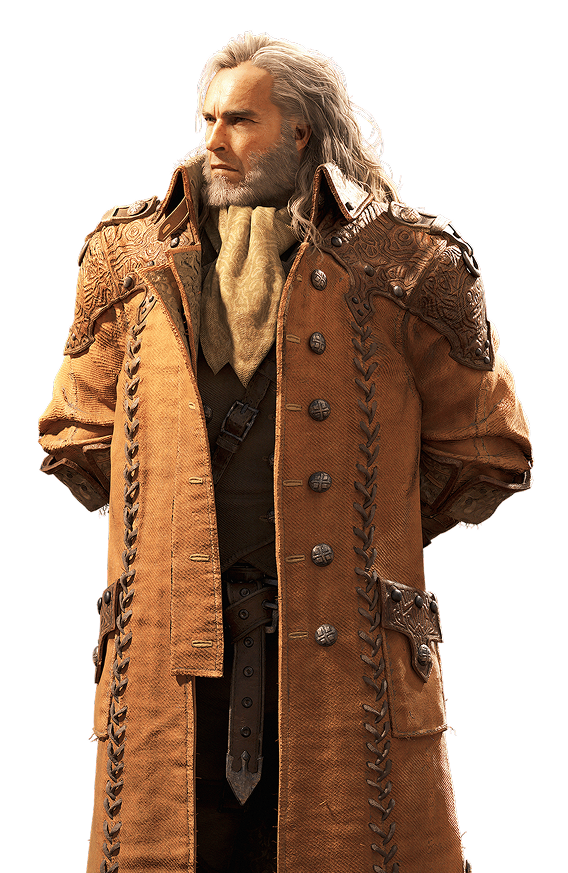
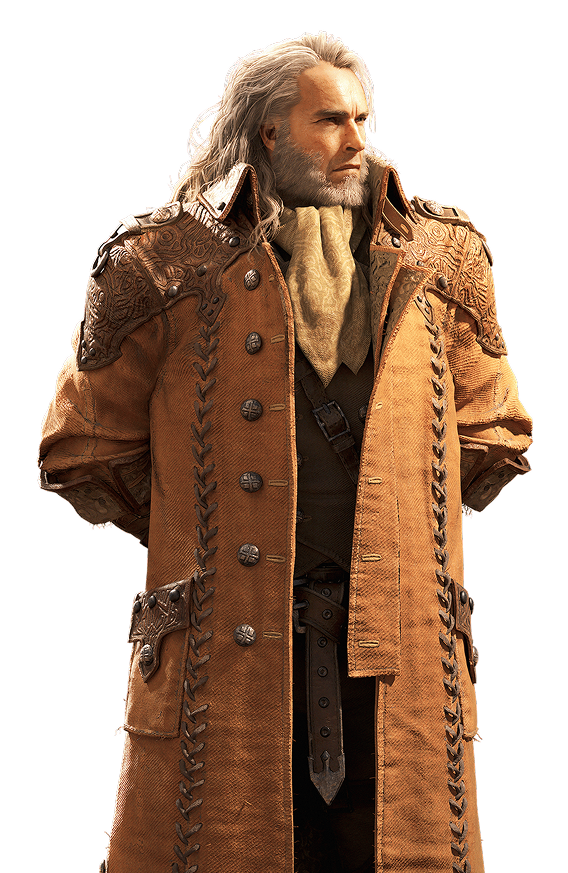
what the flip

diff --git a/docs/style.css b/docs/style.css
@@ -38,6 +38,11 @@ body, html {
     align-items: flex-end; /* puts sprites at bottom */
 }
 
+/* flippity flip */
+#character-right{
+    transform: rotateY(180deg);
+}
+
 .character-sprite {
     height: 85vh; 
     min-height: 200px; 
